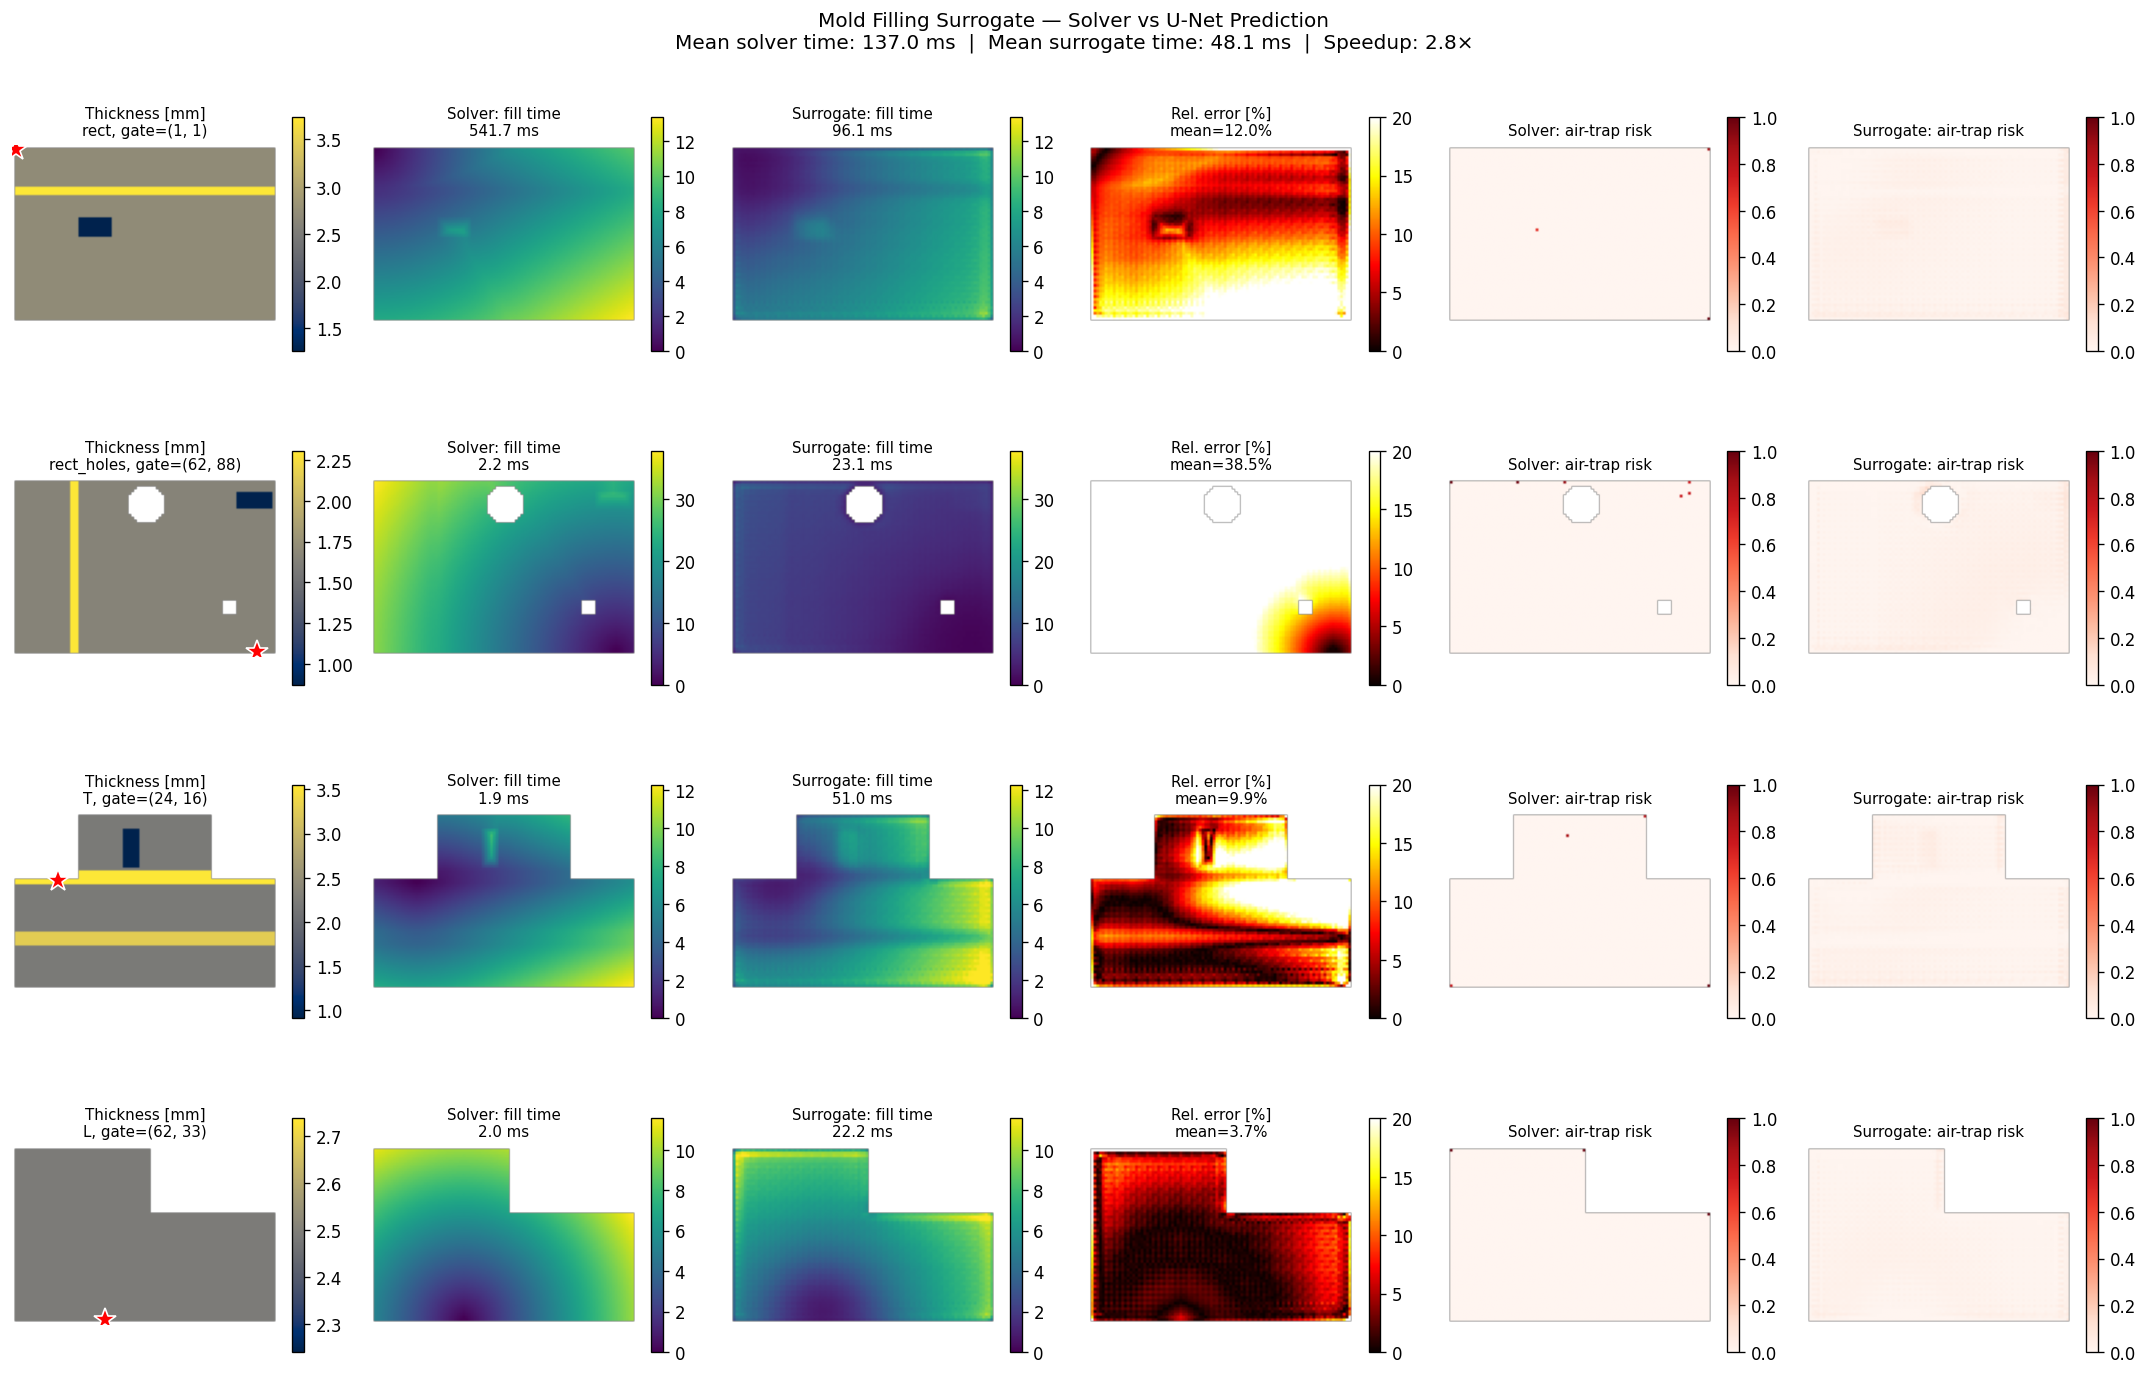
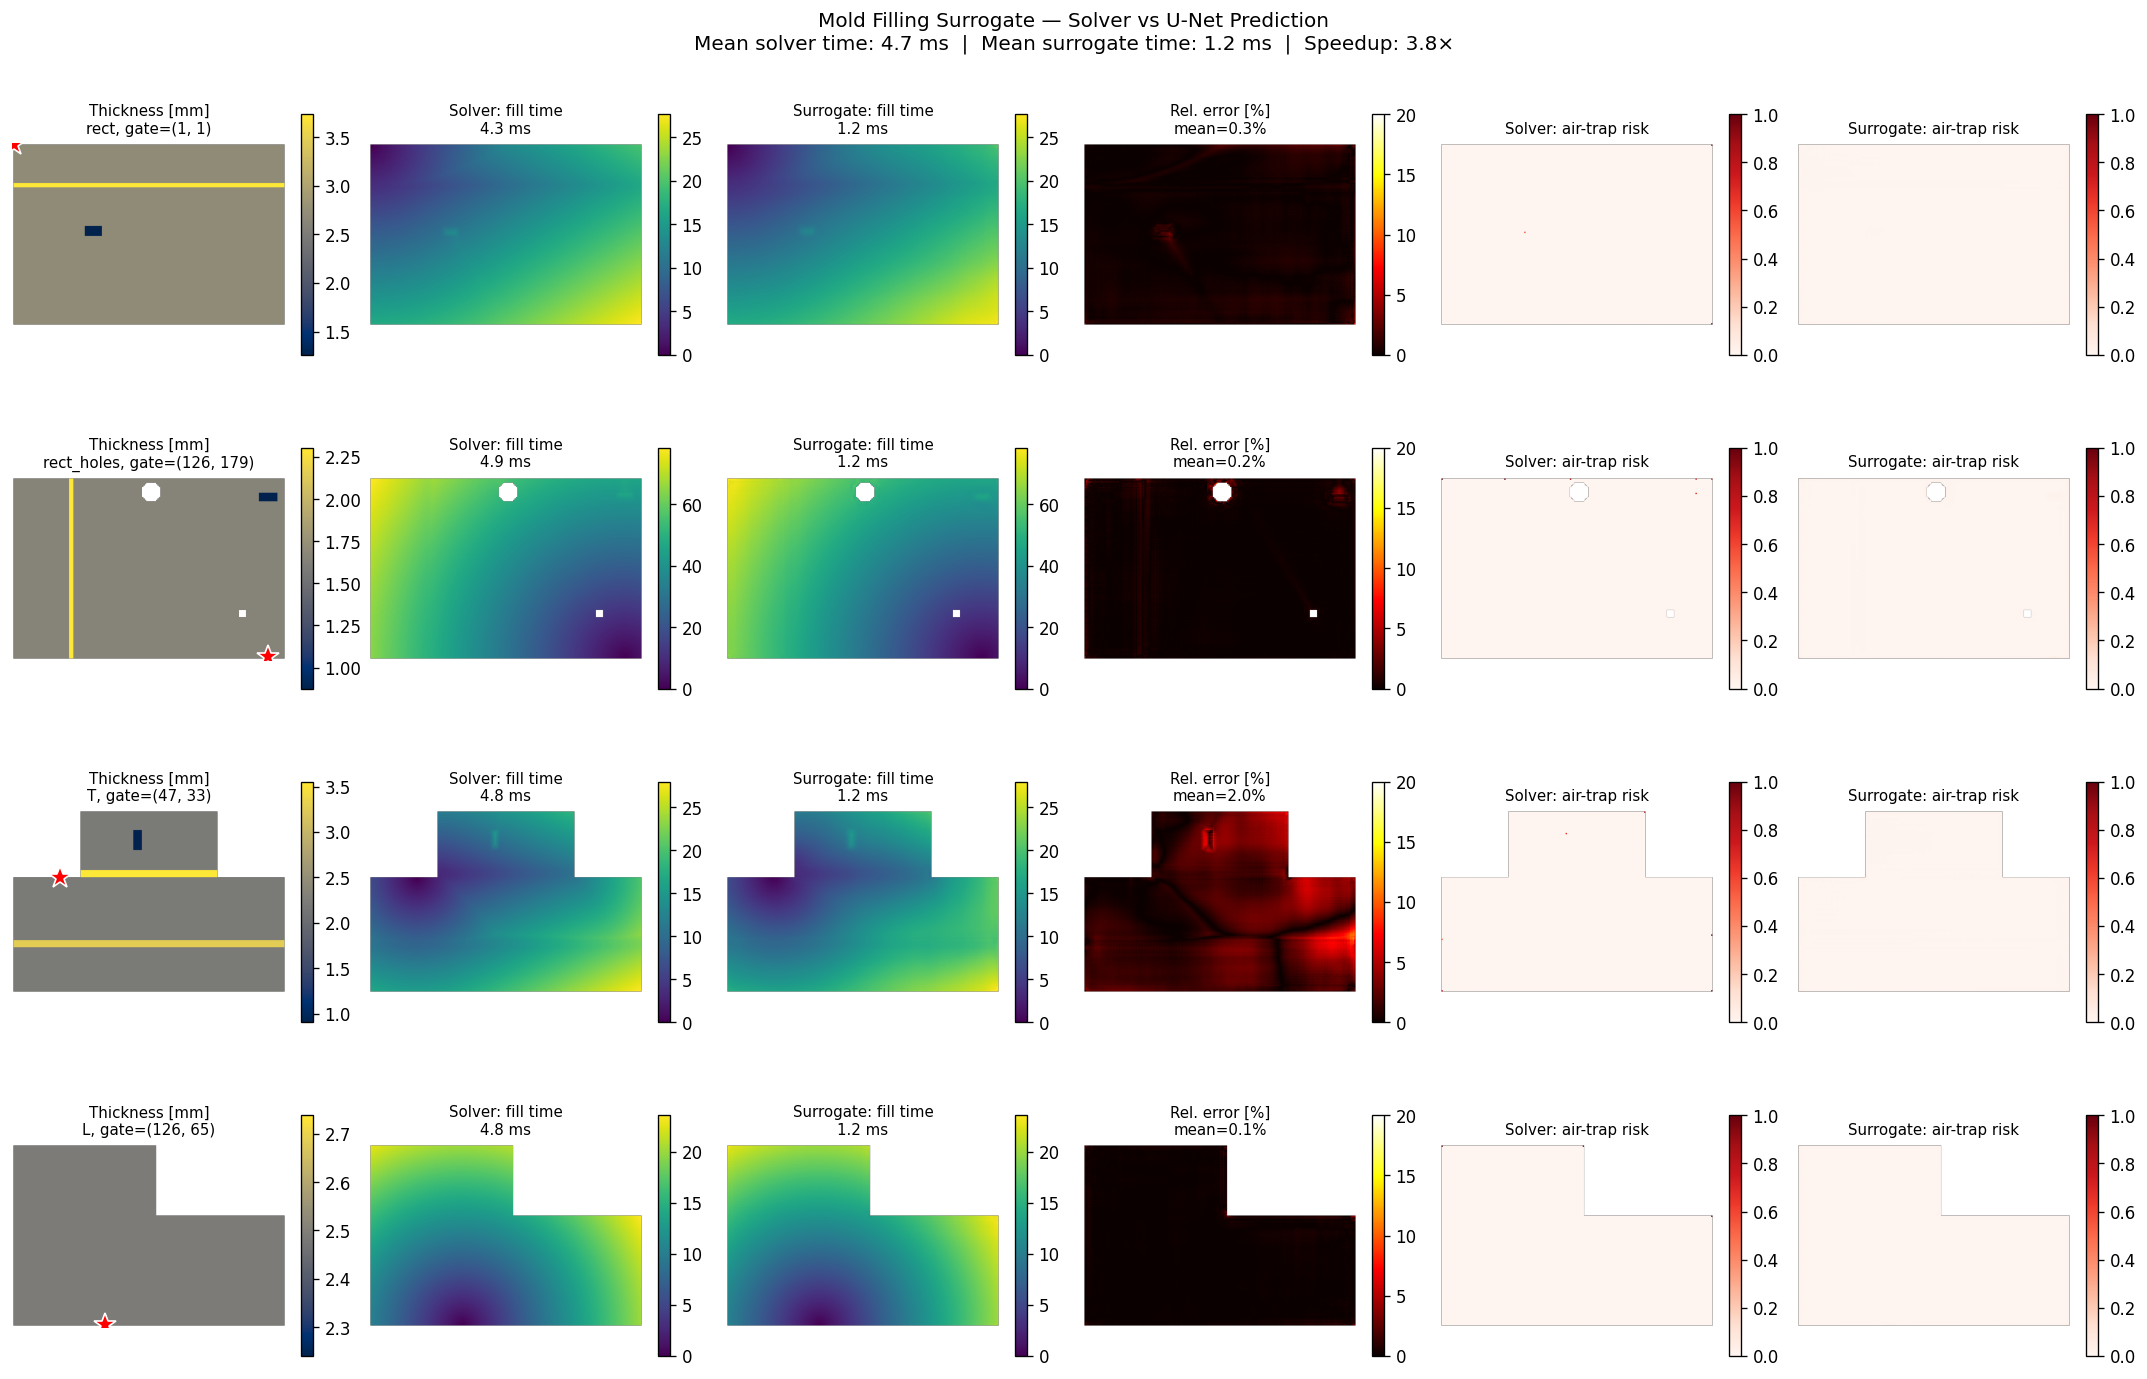
Final results: trained model figure + demo wording + repo intro
- mold-surrogate/assets/comparison.png: regenerated with the 80-epoch
  trained model on the held-out test set (4 examples). Mean error <1%
  on visible cells.
- mold-surrogate/README.md: clarify scope ("for my personal research only")
- mold-surrogate/demo/interactive.py: same wording update in the in-app
  expander
- README.md (top-level): brief note about the project + LAN demo URL

diff --git a/mold-surrogate/demo/interactive.py b/mold-surrogate/demo/interactive.py
@@ -270,8 +270,8 @@ design iteration. A surrogate makes that real-time, enabling a designer to inter
 ask "what if I move the gate?" or "what if I make this section thinner?" and get a useful
 answer in milliseconds — instead of staring at a progress bar.
 
-This is a research prototype with simplified physics (isothermal, Newtonian, 2D Hele-Shaw
-eikonal). It is not a Moldflow replacement.
+This is for my personal research only, with simplified physics (isothermal, Newtonian,
+2D Hele-Shaw eikonal). It is not a Moldflow replacement.
     """)
 
 st.caption(f"Model on **{device.upper()}** · grid {grid_size[0]}×{grid_size[1]} · "

diff --git a/README.md b/README.md
@@ -1,2 +1,15 @@
 # my_experiments
-a public github repo fro my personal experiments for learning and testing
+
+A public GitHub repo for my personal experiments — for learning and testing.
+
+## Projects
+
+### [mold-surrogate](mold-surrogate/) — Real-time injection molding fill prediction
+
+A neural surrogate for plastic injection molding fill-time prediction.
+Hele-Shaw eikonal physics solver paired with a U-Net surrogate that
+predicts fill time and air-trap risk in milliseconds. For my personal
+research only — not a Moldflow replacement.
+
+- Live LAN demo: <http://192.168.21.230:8501> (when running)
+- See [mold-surrogate/README.md](mold-surrogate/README.md) for details

diff --git a/mold-surrogate/README.md b/mold-surrogate/README.md
@@ -34,7 +34,7 @@ The repository contains:
 
 ## What this is *not*
 
-This is a **research prototype**, not a Moldflow replacement. The physics is
+This is **for my personal research only**, not a Moldflow replacement. The physics is
 simplified along several axes:
 
 - **Isothermal**: no thermal boundary layer, no frozen layer growth
